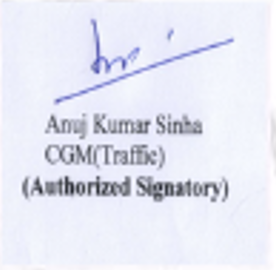
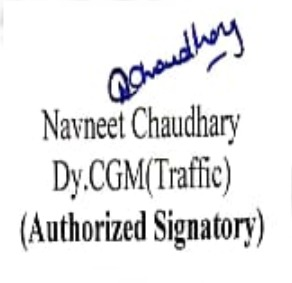
Updated

Changed region(s): [[0.058, 0.0593, 0.9275, 0.8889], [0.9565, 0.4444, 1.0, 0.5926]]

diff --git a/main.html b/main.html
@@ -18,8 +18,8 @@
             <img src="profile.jpg" alt="User Photo" class="user-photo">
             <div class="user-name">SHAHZAD AKBAR</div>
             <div class="user-type">Student All route AC/Non AC</div>
-            <div class="bus-pass-no">Bus Pass No. <span class="blinking">4602042600208</span></div>
-            <div class="validity">Valid from 13/04/2026 to 12/09/2026</div>
+            <div class="bus-pass-no">Bus Pass No. <span class="blinking">4602062600208</span></div>
+            <div class="validity">Valid from 13/06/2026 to 12/11/2026</div>
             <div class="signature-qr-container">
                 <div class="signature">
                     <img src="sign.png" alt="Signature">

diff --git a/index.html b/index.html
@@ -26,7 +26,7 @@
         <hr class="deep-blue-line">
         <form id="busPassForm" onsubmit="handleSubmit(event)">
             <label for="busPassNumber">e-BusPass Number <span class="required">*</span></label>
-            <input type="text" id="busPassNumber" value="4602042600208" disabled>
+            <input type="text" id="busPassNumber" value="4602062600208" disabled>
 
             <label for="mobileNumber">Enter Mobile Number <span class="required">*</span></label>
             <input type="text" id="mobileNumber" placeholder="Enter Mobile Number">
